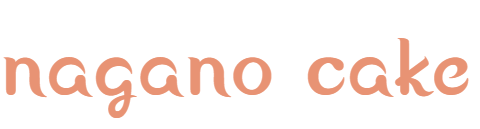
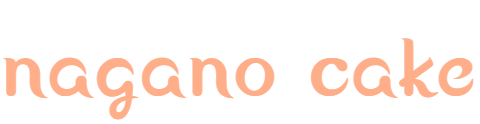
[Update]headerやfooterなどのの修正

Changed region(s): [[0.0, 0.4355, 0.5938, 0.9677], [0.625, 0.2903, 1.0, 0.7984]]

diff --git a/app/javascript/stylesheets/application.scss b/app/javascript/stylesheets/application.scss
@@ -9,6 +9,14 @@ main {
   min-height: 100vh;
 }
 
+header, .footer-bottom {
+  background-color: #ffae8a;
+}
+
+.footer-bottom {
+  height: 60px;
+}
+
 .navbar li{
   margin: 0 10px;
 }
@@ -18,56 +26,52 @@ ul, li {
 }
 
 .social-link {
-  background-color: #e89374;
+  background-color: #ffae8a;
   border-radius: 50%;
   width: 44px;
   height: 44px;
+  & a{
+    display: flex;
+    align-items: center;
+    justify-content: center;
+    width: 44px;
+    height: 44px;
+    font-size: 24px;
+    color: #fff;
+  }
 }
 
-.social-link a{
-  display: flex;
-  align-items: center;
-  justify-content: center;
-  width: 44px;
-  height: 44px;
-  font-size: 24px;
-  color: #fff;
-}
-
-.admin-add-item {
-  display: inline-block;
-  width: 48px;
-  height: 48px;
-  border-radius: 50%;
-  box-shadow: 0px 2px 2px 0px rgba(0, 0, 0, 0.5);
-}
-
-.admin-add-item:hover {
-  position: relative;
-  bottom: 1px;
-  box-shadow: 0px 4px 4px 0px rgba(0, 0, 0, 0.6);
-}
-
-.admin-add-item:active {
-  position: relative;
-  top: 3px;
-  box-shadow: 0px 0px 0px 0px rgba(0, 0, 0, 0);
-  border-bottom: 1px solid #dcdcdc;
-}
-
-.admin-item-btn {
-  width: 48px;
-  height: 48px;
-  font-size: 32px;
-  color: #6c757d;
-}
-
-.admin-item-btn:hover {
-  color: #6c757d;
-}
-
-.admin-item-btn:active {
-  color: #6c757d;
+.admin-add {
+  &-item {
+    display: inline-block;
+    width: 48px;
+    height: 48px;
+    border-radius: 50%;
+    box-shadow: 0px 2px 2px 0px rgba(0, 0, 0, 0.5);
+    &:hover {
+      position: relative;
+      bottom: 1px;
+      box-shadow: 0px 4px 4px 0px rgba(0, 0, 0, 0.6);
+    }
+    &:active {
+      position: relative;
+      top: 3px;
+      box-shadow: 0px 0px 0px 0px rgba(0, 0, 0, 0);
+      border-bottom: 1px solid #dcdcdc;
+    }
+    &-btn {
+      width: 48px;
+      height: 48px;
+      font-size: 32px;
+      color: #ffae8a;
+      &:hover {
+        color: #ffae8a;
+      }
+      &:active {
+        color: #ffae8a;
+      }
+    }
+  }
 }
 
 .main-top {
@@ -91,8 +95,27 @@ ul, li {
   text-align: center;
 }
 
-footer .admin-sign-in {
-  position: absolute;
-  bottom: 0;
-  right: 0;
+header, footer {
+  border: 1px solid #d3d3d3;
+  &.admin-sign-in {
+    position: absolute;
+    bottom: 0;
+    right: 0;
+  }
 }
+input#customer_address{
+  width: 370px;
+}
+
+.admin-sign-in {
+    text-decoration: none;
+    cursor: text;
+    &:hover {
+      text-decoration: none;
+      cursor: text;
+    }
+    &:active {
+      text-decoration: none;
+      cursor: text;
+    }
+  }
